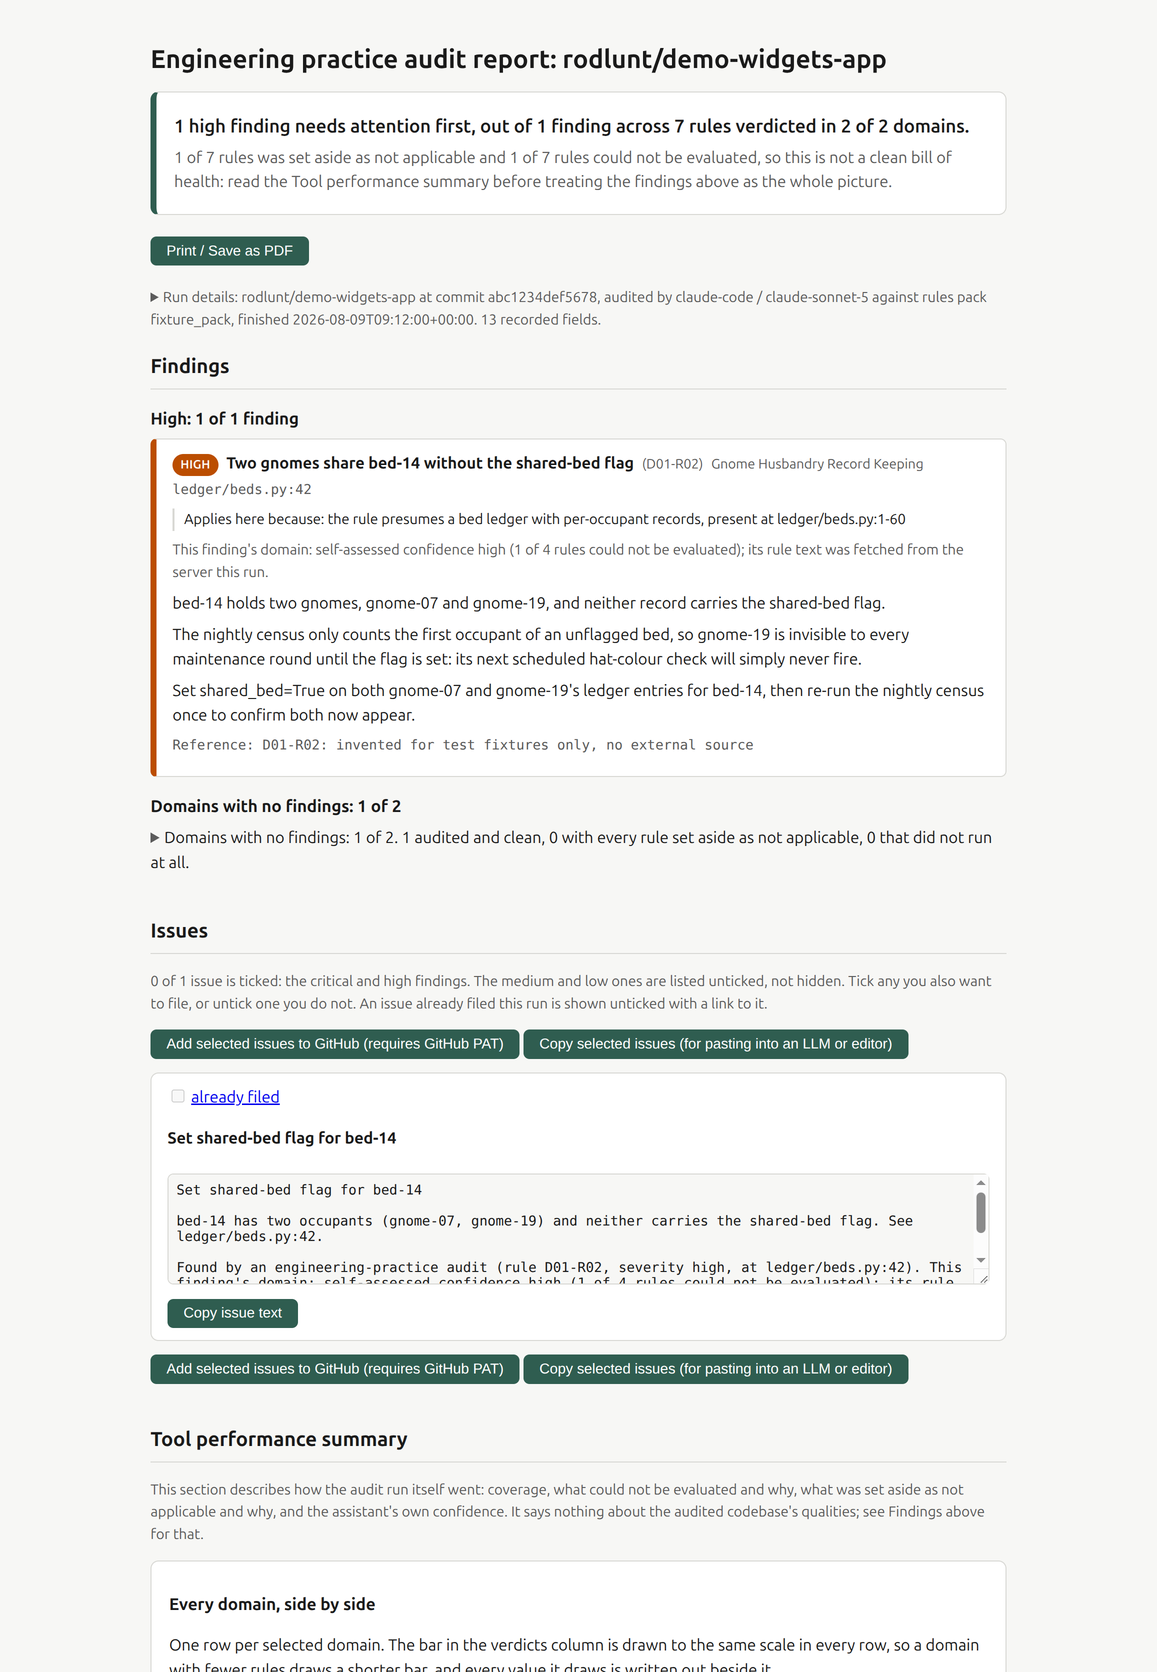
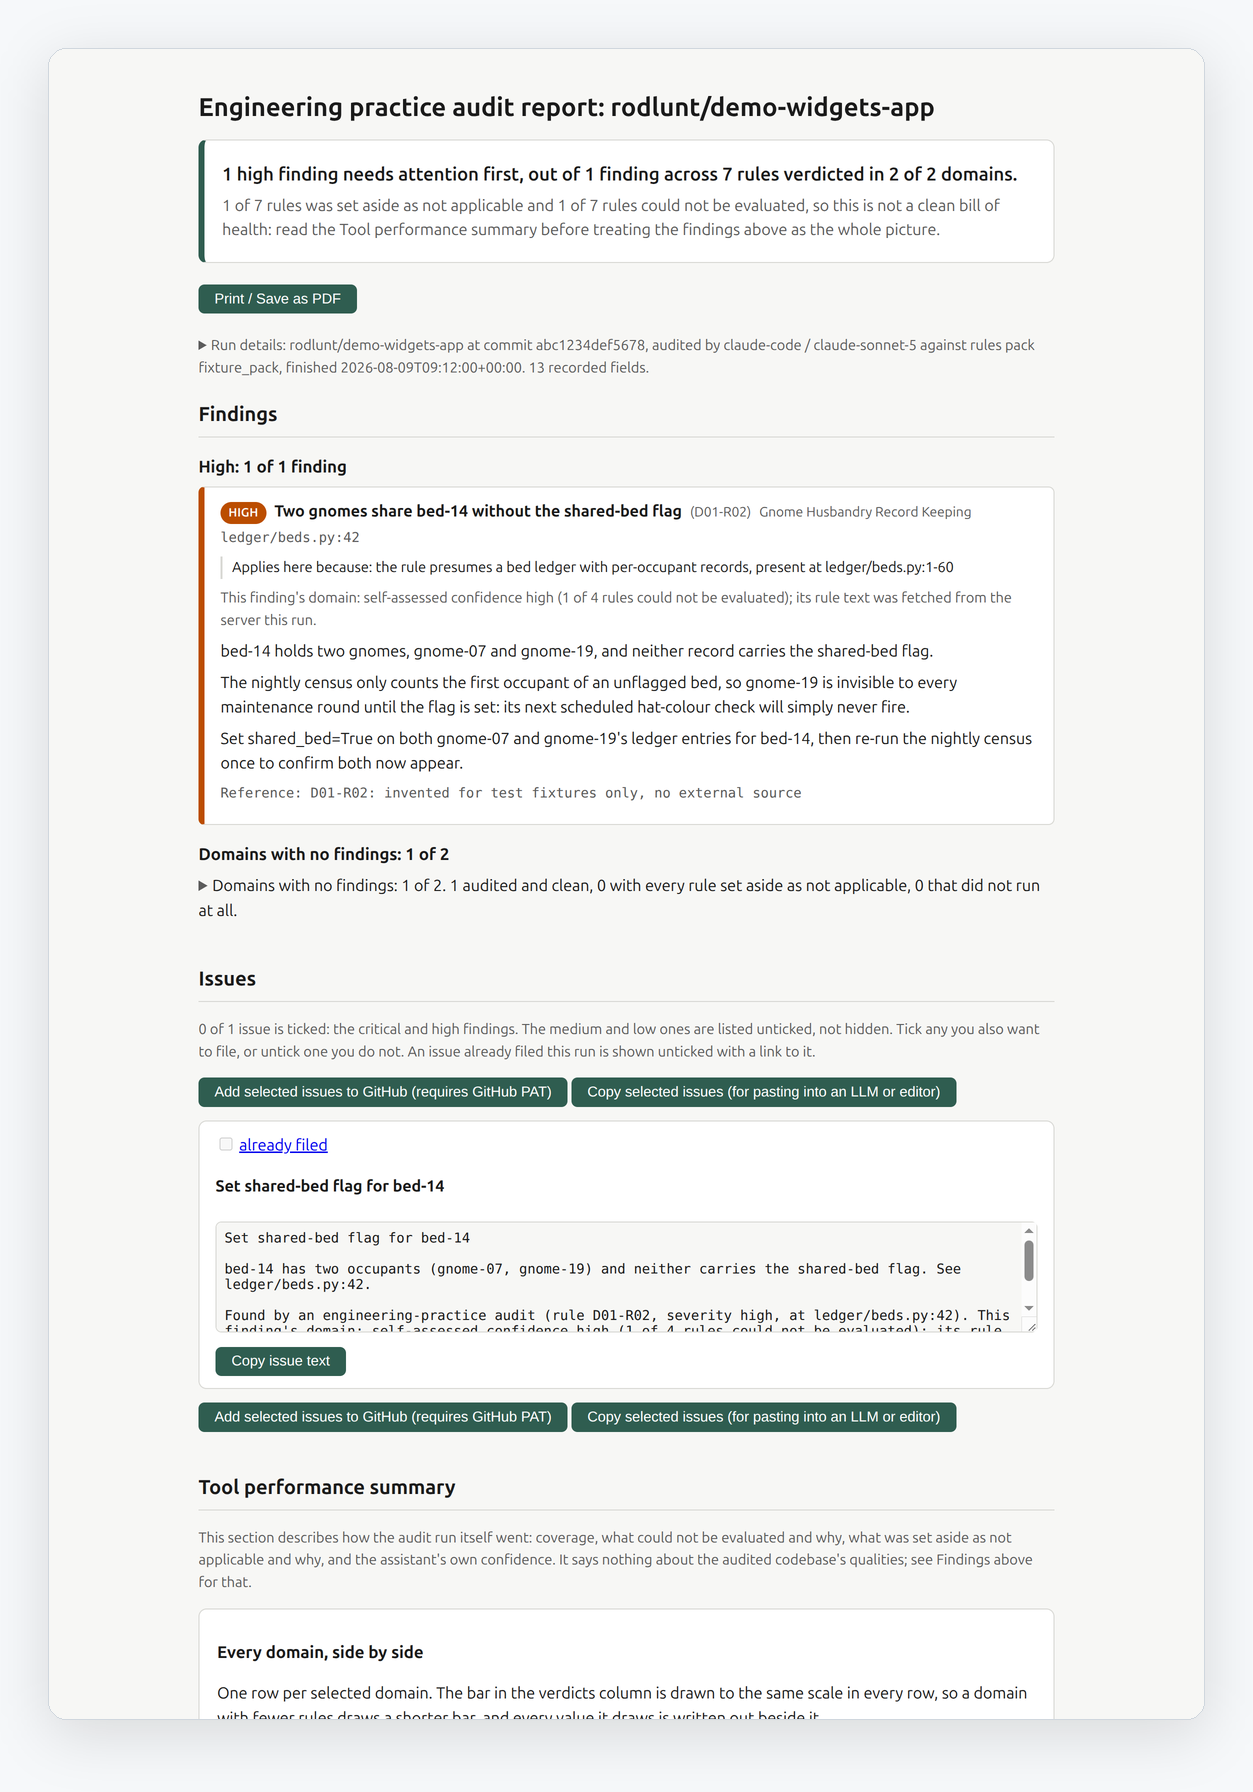
docs: apply professional-tier screenshot presentation to README
Recapture the three README screenshots from the real report (regenerated
demo report and live config page, taster rules pack) instead of reusing
raw crops, then frame each with rounded corners, a hairline border and a
soft drop shadow on a light or dark canvas via docs/images/frame_screenshots.py.

Lay the README out with centred, width-controlled HTML per the repo-setup
playbook's professional tier: report as the hero, config page and
issues/feedback as a two-up row beneath, both selected with
prefers-color-scheme.

Regenerate the social preview card to match, since it embeds
report-light.png and would otherwise advertise a report layout that no
longer exists. Document both new capture recipes in
docs/social-card/README.md so they stay regenerable.

diff --git a/docs/images/frame_screenshots.py b/docs/images/frame_screenshots.py
@@ -1,0 +1,103 @@
+#!/usr/bin/env python3
+"""Frame raw screenshots for the README: rounded corners, hairline border,
+soft drop shadow, padded canvas, light and dark variants.
+
+One-off tooling, run with:
+    uv run --with pillow python3 docs/images/frame_screenshots.py
+
+Not wired into CI; re-run by hand whenever a screenshot is recaptured. Takes
+the light/dark screenshot pairs already captured per
+docs/social-card/README.md (device pixel ratio 2, downscaled by half with
+Lanczos) and composites each onto its own light or dark canvas: a light
+capture never gets a dark canvas and vice versa, since the capture's own
+background already matches one scheme.
+"""
+
+from pathlib import Path
+
+from PIL import Image, ImageDraw, ImageFilter
+
+IMAGES = Path(__file__).parent
+
+CANVAS_LIGHT = (246, 248, 250)
+CANVAS_DARK = (22, 27, 34)
+BORDER_LIGHT = (208, 215, 222)
+BORDER_DARK = (48, 54, 61)
+SHADOW_COLOUR = (0, 0, 0)
+
+CORNER_RADIUS = 18
+PAD_SIDE = 48
+PAD_TOP = 48
+PAD_BOTTOM = 72
+SHADOW_BLUR = 28
+SHADOW_OFFSET_Y = 14
+SHADOW_OPACITY = 90  # 0-255
+
+
+def rounded_mask(size: tuple[int, int], radius: int) -> Image.Image:
+    mask = Image.new("L", size, 0)
+    draw = ImageDraw.Draw(mask)
+    draw.rounded_rectangle(
+        [(0, 0), (size[0] - 1, size[1] - 1)], radius=radius, fill=255
+    )
+    return mask
+
+
+def frame(src_path: Path, dest_path: Path, canvas_colour, border_colour) -> None:
+    shot = Image.open(src_path).convert("RGB")
+    sw, sh = shot.size
+
+    canvas_w = sw + PAD_SIDE * 2
+    canvas_h = sh + PAD_TOP + PAD_BOTTOM
+    canvas = Image.new("RGBA", (canvas_w, canvas_h), canvas_colour + (255,))
+
+    # Soft shadow: a blurred rounded rectangle the same size as the shot,
+    # offset down slightly, sitting under the card.
+    shadow_layer = Image.new("RGBA", (canvas_w, canvas_h), (0, 0, 0, 0))
+    shadow_shape = Image.new("RGBA", (sw, sh), (0, 0, 0, 0))
+    shadow_draw = ImageDraw.Draw(shadow_shape)
+    shadow_draw.rounded_rectangle(
+        [(0, 0), (sw - 1, sh - 1)],
+        radius=CORNER_RADIUS,
+        fill=SHADOW_COLOUR + (SHADOW_OPACITY,),
+    )
+    shadow_layer.paste(
+        shadow_shape, (PAD_SIDE, PAD_TOP + SHADOW_OFFSET_Y), shadow_shape
+    )
+    shadow_layer = shadow_layer.filter(ImageFilter.GaussianBlur(SHADOW_BLUR))
+    canvas = Image.alpha_composite(canvas, shadow_layer)
+
+    # Rounded-corner card with the real screenshot inside.
+    card = Image.new("RGBA", (sw, sh), (0, 0, 0, 0))
+    card.paste(shot, (0, 0))
+    mask = rounded_mask((sw, sh), CORNER_RADIUS)
+    canvas.paste(card, (PAD_SIDE, PAD_TOP), mask)
+
+    # Hairline border on top, same rounded rect.
+    border_layer = Image.new("RGBA", (canvas_w, canvas_h), (0, 0, 0, 0))
+    border_draw = ImageDraw.Draw(border_layer)
+    border_draw.rounded_rectangle(
+        [(PAD_SIDE, PAD_TOP), (PAD_SIDE + sw - 1, PAD_TOP + sh - 1)],
+        radius=CORNER_RADIUS,
+        outline=border_colour + (255,),
+        width=1,
+    )
+    canvas = Image.alpha_composite(canvas, border_layer)
+
+    canvas.convert("RGB").save(dest_path, "PNG", optimize=True)
+    print(f"wrote {dest_path} ({canvas.width}x{canvas.height})")
+
+
+# Each capture already matches one colour scheme (it is a screenshot of the
+# real page in that scheme), so it gets framed onto the matching canvas only.
+SHOTS = [
+    ("config-page-light.png", CANVAS_LIGHT, BORDER_LIGHT),
+    ("config-page-dark.png", CANVAS_DARK, BORDER_DARK),
+    ("report-light.png", CANVAS_LIGHT, BORDER_LIGHT),
+    ("report-dark.png", CANVAS_DARK, BORDER_DARK),
+    ("issues-feedback-light.png", CANVAS_LIGHT, BORDER_LIGHT),
+    ("issues-feedback-dark.png", CANVAS_DARK, BORDER_DARK),
+]
+
+for name, canvas_colour, border_colour in SHOTS:
+    frame(IMAGES / f"unframed-{name}", IMAGES / name, canvas_colour, border_colour)

diff --git a/docs/social-card/README.md b/docs/social-card/README.md
@@ -69,5 +69,46 @@ The 1157 figure is the content width, not the window width. An earlier round cap
 have always been 1157 wide; setting the viewport to 1157 with the scrollbar suppressed
 reaches the same layout in one step.
 
-`tests/test_social_card_currency.py` fails the suite if either of these images falls behind
+## Refreshing the config-page capture
+
+`config-page-light.png` and `config-page-dark.png` are the interactive configuration page,
+served from a `ConfigServer` running against the taster rules pack (the same three domains
+a first-time user sees, not the full pack), with `output_dir=None` so the page shows the
+generic "this run's output directory" placeholder rather than a real machine's filesystem
+path:
+
+```python
+from pathlib import Path
+from engineering_audit.config_page import ConfigServer
+from engineering_audit.rules import load_pack
+
+pack = load_pack(Path("examples/taster-rules"))
+server = ConfigServer(pack.domains, output_dir=None)
+print(server.start())  # prints the localhost URL to capture
+```
+
+Run with `uv run python`, capture the page at 1157x1483 following the same isolated
+context, colour scheme, device pixel ratio and scrollbar-suppression steps as the report
+images above, then shut the server down (`server.shutdown()`, or just kill the process).
+
+## Framing the raw captures
+
+All six `docs/images/{config-page,report,issues-feedback}-{light,dark}.png` files are
+raw captures composited onto a padded canvas with rounded corners, a hairline border and
+a soft drop shadow: `docs/images/frame_screenshots.py`, run with
+`uv run --with pillow python3 docs/images/frame_screenshots.py`. It reads
+`unframed-<name>.png` for each of the six and writes the framed, committed version over
+the same path; put the raw capture at that `unframed-` name first, run the script, then
+delete the `unframed-` intermediate (it is a build input, not a tracked asset, same as
+`report-light.png` copied into this directory below).
+
+## Keeping the social card current
+
+The card embeds the now-framed `docs/images/report-light.png`, so **regenerate the social
+card whenever the report capture changes appearance**, framing included: a change to the
+padding, shadow or corner radius shows up in the card's cropped 560px-wide thumbnail too,
+and `tests/test_social_card_currency.py` fails the suite if the card's last commit is
+older than the report capture it embeds, so this cannot be skipped and left for later.
+
+`tests/test_social_card_currency.py` fails the suite if any of these files falls behind
 what it is a picture of, so none of this has to be remembered.

diff --git a/README.md b/README.md
@@ -31,11 +31,23 @@ no sign-up; the full sixteen-domain, 260-rule pack is available on request
 
 **[Save me the chit chat: show me how to install it →](#how-to-use)**
 
-| Configure a run | Report |
-|---|---|
-| <picture><source media="(prefers-color-scheme: dark)" srcset="docs/images/config-page-dark.png"><img alt="Configuration page: domain tick boxes, issue delivery, feedback consent" src="docs/images/config-page-light.png"></picture> | <picture><source media="(prefers-color-scheme: dark)" srcset="docs/images/report-dark.png"><img alt="Report: computed headline naming what needs attention first, then findings sorted worst first" src="docs/images/report-light.png"></picture> |
+<p align="center">
+  <picture>
+    <source media="(prefers-color-scheme: dark)" srcset="docs/images/report-dark.png">
+    <img src="docs/images/report-light.png" alt="Report: computed headline naming what needs attention first, then findings sorted worst first" width="720">
+  </picture>
+</p>
 
-<picture><source media="(prefers-color-scheme: dark)" srcset="docs/images/issues-feedback-dark.png"><img alt="Issues with selection tick boxes and GitHub filing, and the per-domain table of rule verdicts" src="docs/images/issues-feedback-light.png"></picture>
+<p align="center">
+  <picture>
+    <source media="(prefers-color-scheme: dark)" srcset="docs/images/config-page-dark.png">
+    <img src="docs/images/config-page-light.png" alt="Configuration page: domain tick boxes, issue delivery, feedback consent" width="48%">
+  </picture>
+  <picture>
+    <source media="(prefers-color-scheme: dark)" srcset="docs/images/issues-feedback-dark.png">
+    <img src="docs/images/issues-feedback-light.png" alt="Issues with selection tick boxes and GitHub filing, and the per-domain table of rule verdicts" width="48%">
+  </picture>
+</p>
 
 ## How to use
 
